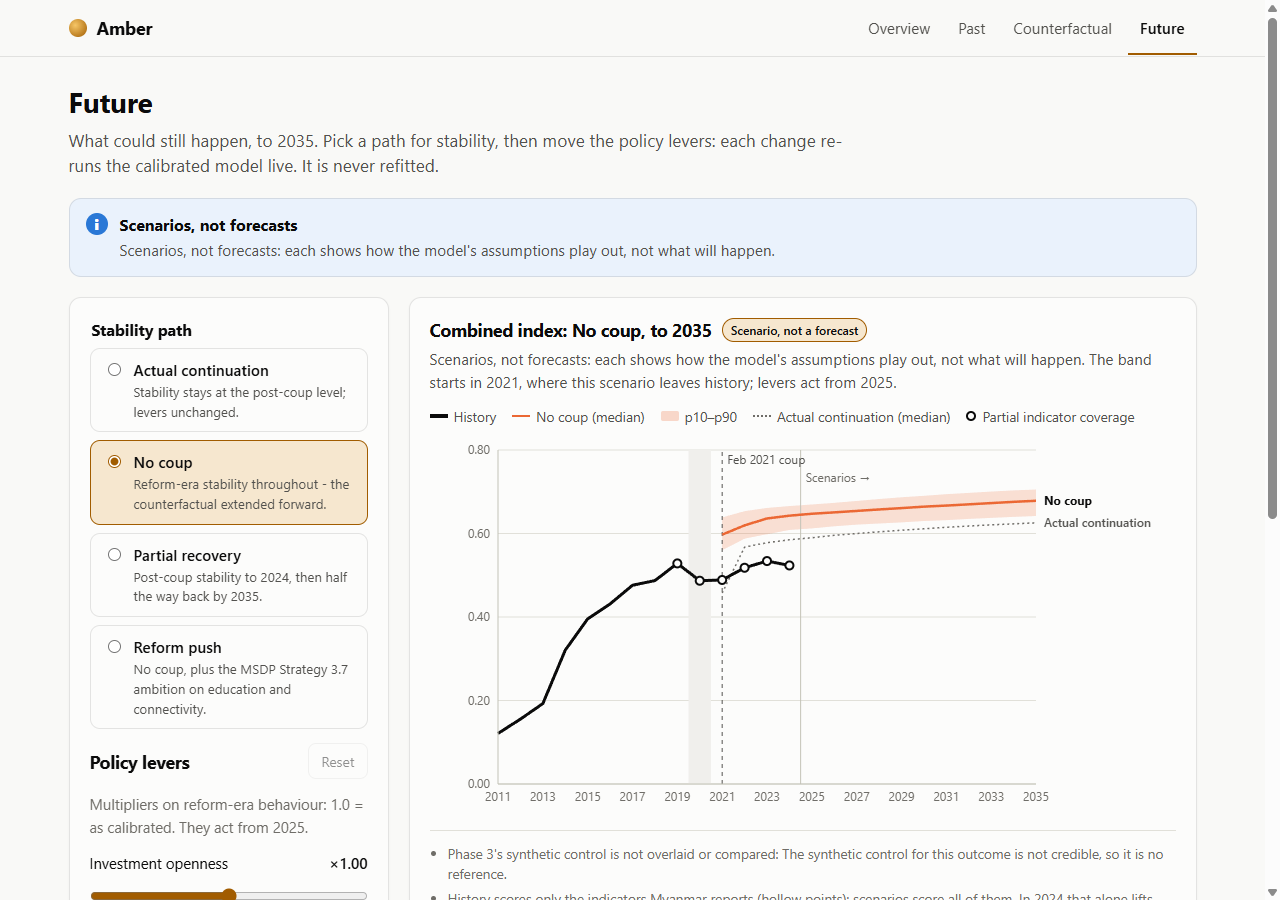
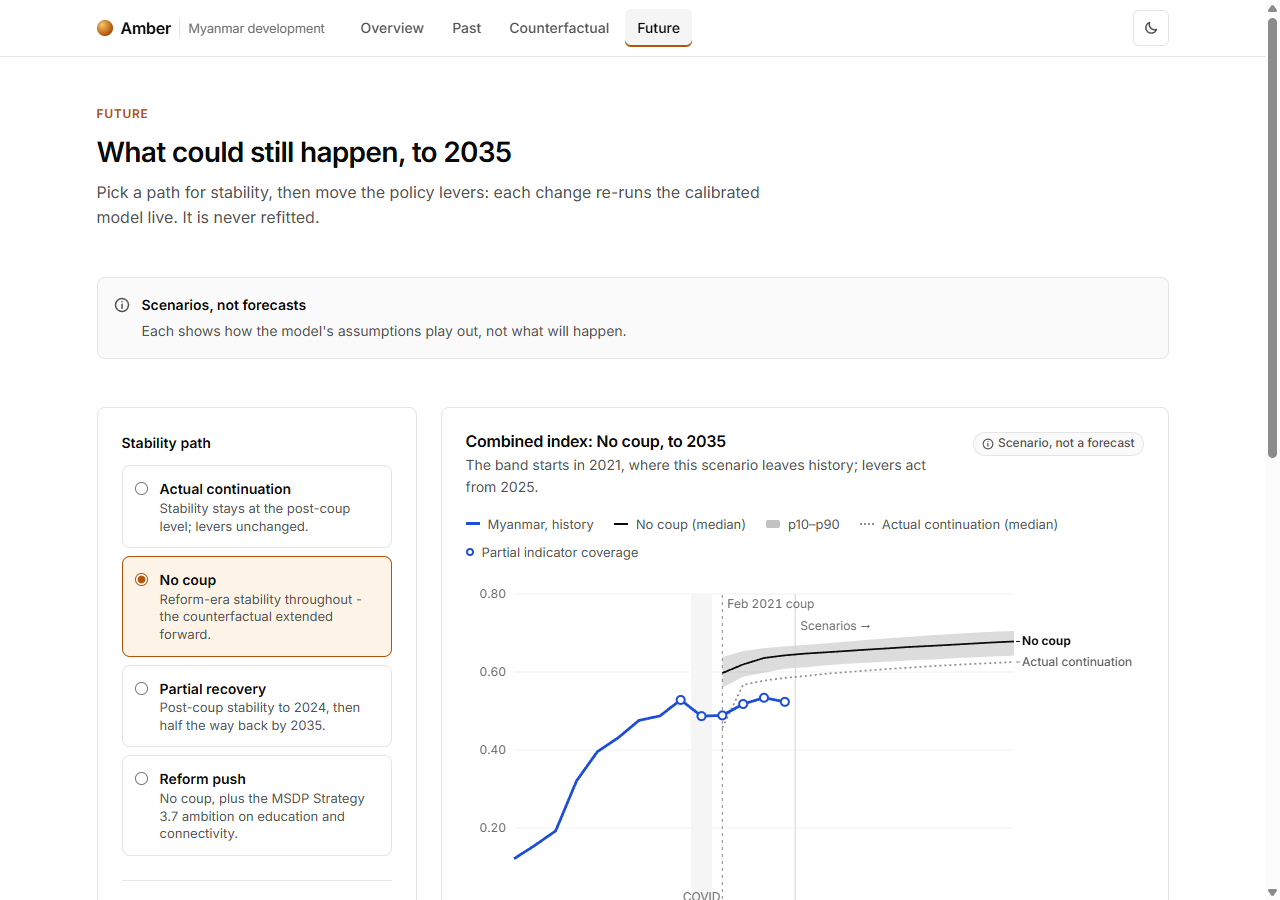
Document the design system, with before/after screenshots
docs/design-system.md records the tokens, the palette validation and the
honesty-color collision check, the type scale, primitives and chart grammar.
Before (Phase 6) vs after, same build, data and viewport:
  docs/images/redesign/before-overview.png -> docs/images/app-overview.png
  docs/images/redesign/before-future.png   -> docs/images/app-future.png
The README screenshots are recaptured from the redesigned app.

Bundle: JS ~201.5 -> 204.7 kB gz (+3.2), CSS 3.3 -> 5.4 kB gz, font +48 kB.

diff --git a/docs/design-system.md b/docs/design-system.md
@@ -1,0 +1,174 @@
+# Design system
+
+Amber's interface follows a calm, near-monochrome analytical style, in the spirit of Linear and Vercel:
+- hairline borders rather than shadows;
+- generous whitespace;
+- one amber accent;
+- charts that look like they came from the same hand.
+
+This page documents the tokens and the rules that use them.
+
+**Source of truth:**
+- [`frontend/src/styles/tokens.css`](../frontend/src/styles/tokens.css) holds every color, size, space, radius, shadow and motion value.
+- [`frontend/src/lib/chartTokens.ts`](../frontend/src/lib/chartTokens.ts) holds the chart geometry Recharts needs as numbers.
+
+Components use `var(--token)` and never carry their own hex or pixel values.
+
+**Before and after** (the same build, data and viewport):
+
+| | Overview | Future |
+|---|---|---|
+| Before | ![Overview before the redesign](images/redesign/before-overview.png) | ![Future view before the redesign](images/redesign/before-future.png) |
+| After | ![Overview after the redesign](images/app-overview.png) | ![Future view after the redesign](images/app-future.png) |
+
+---
+
+## Color
+
+Color has three jobs, and each job has its own palette. The palettes never borrow from one another.
+
+### 1. Neutral ramp (the UI)
+
+| Token | Light | Dark | Use | Contrast (on surface) |
+|---|---|---|---|---|
+| `--bg` / `--surface` | `#ffffff` / `#ffffff` | `#0a0a0a` / `#111111` | page, cards | |
+| `--surface-subtle` | `#fafafa` | `#161616` | tints, table heads | |
+| `--surface-hover` | `#f5f5f5` | `#1c1c1c` | hover, active tab | |
+| `--border` | `#e5e5e5` | `#262626` | hairlines | decorative |
+| `--border-strong` | `#d4d4d4` | `#333333` | inputs, hover borders | decorative |
+| `--text-1` | `#0a0a0a` | `#ededed` | primary text | 19.8 / 16.1 |
+| `--text-2` | `#525252` | `#a3a3a3` | secondary text | 7.8 / 7.5 |
+| `--text-3` | `#6b6b6b` | `#8f8f8f` | tertiary text, axis ticks | 5.3 / 5.8 |
+
+Every text token clears WCAG AA (4.5:1) on every surface it sits on, hover tints included, in both themes.
+
+### 2. The accent (interactive, active, brand)
+
+Refined amber: `--accent` is `#b45309` (light) and `#f5a524` (dark). It's used only for:
+- the active tab;
+- slider fills and radios;
+- the focus ring;
+- eyebrows and calls to action;
+- the brand mark.
+
+It never appears in a chart.
+
+### 3. Data palette (the series)
+
+The treated country is the **hero**, a strong blue. The six donors take slots 1–6 in `/meta` order (`countryColors` in `lib/theme.ts`). So every chart colors a country identically, the frontend never names a country, and a filter can never repaint the survivors.
+
+| Slot | Light | Dark |
+|---|---|---|
+| `--data-hero` | `#1d4ed8` | `#4f7ff0` |
+| `--data-1` | `#0d9e8d` | `#159c8c` |
+| `--data-2` | `#a46ad8` | `#9c76de` |
+| `--data-3` | `#679a29` | `#6f9d33` |
+| `--data-4` | `#d15a94` | `#d0659f` |
+| `--data-5` | `#3a8ec0` | `#3497c4` |
+| `--data-6` | `#a08332` | `#a8893b` |
+
+**How donors stay recessive.** Desaturating them was rejected because it fails the validator's chroma floor: the lines read as gray and can't be told apart. Instead, donors keep their chroma and recede by weight: 1.5px strokes against the hero's 2.75px. Every line also carries a direct end label, so color is never the only cue.
+
+**Validated** with the dataviz skill's `validate_palette.js` (light on `#ffffff`, dark on `#111111`):
+
+| Check | Light | Dark |
+|---|---|---|
+| Lightness band | pass (L 0.43–0.77) | pass (L 0.48–0.67) |
+| Chroma floor (≥ 0.10) | pass | pass |
+| Adjacent CVD separation (target ΔE ≥ 8) | pass, worst 8.6 | pass, worst 8.1 |
+| Normal-vision floor (ΔE ≥ 15) | pass, worst 20.7 | pass, worst 19.6 |
+| Contrast vs surface (≥ 3:1) | pass | pass |
+
+**Modeled lines are neutral.** Whatever is constructed is drawn in neutral ink, told apart by stroke:
+- synthetic Myanmar is dashed;
+- a scenario median is solid, over a soft band;
+- the baseline scenario is dotted;
+- placebos are thin.
+
+Real Myanmar is always the hero. `--chart-faint` (poor-fit placebos, about 1.8:1) is deliberately below 3:1. Those lines are fit failures, kept for the p-value, and they're also dashed, labelled in the legend and listed in the data table.
+
+### 4. Honesty signals
+
+These are deep text tones on pale tints. They always come with an icon and a title, so they're never color alone, and they stay calm: legible and unmissable, never alarming.
+
+| Signal | Token | Light fg / bg | Dark fg / bg | Text contrast |
+|---|---|---|---|---|
+| Partial coverage | `--caution-*` | `#7c5e10` / `#fbf5e6` | `#f2d27a` / `#2a2410` | 5.6 / 10.5 |
+| Not credible | `--critical-*` | `#8f3b45` / `#fbf0ee` | `#f2a49c` / `#2c1715` | 6.5 / 8.5 |
+| Framing, info | `--info-*` | `#525252` / `#fafafa` | `#a3a3a3` / `#161616` | 7.5 / 7.2 |
+
+**Collision check** (OKLab ΔE×100 against every series color):
+- The not-credible tone clears every series at **ΔE ≥ 17**.
+- The caution tone and the accent sit about **ΔE 11.5** from the tan donor slot, with every other slot at ≥ 15.
+
+That residual is accepted, for three reasons:
+- The accent never appears in a chart.
+- The caution tone appears only in pills that carry an icon and a label.
+- In charts, partial coverage is encoded by **shape** (a hollow ring in the series' own color), not by the caution hue.
+
+---
+
+## Type
+
+[Inter Variable](https://rsms.me/inter/) is self-hosted through `@fontsource-variable/inter`, weight axis only. Browsers fetch just the 48 kB Latin file. It falls back to the system UI stack.
+
+**Tabular figures everywhere:** numbers, axis ticks, tooltips, tables and slider values all use `font-variant-numeric: tabular-nums`.
+
+| Token | Size | Use |
+|---|---|---|
+| `--text-2xs` | 11px | chart ticks at phone width |
+| `--text-xs` | 12px | eyebrows, chart ticks, captions, pills |
+| `--text-sm` | 13px | notes, legends, hints |
+| `--text-base` | 14px | UI body |
+| `--text-md` | 16px | ledes, chart titles |
+| `--text-lg` | 20px | section titles |
+| `--text-xl` | 28px | view titles (H1), stat values |
+| `--text-2xl` | 40px | the overview headline |
+
+Line heights are 1.15 for headings, 1.35 for notes and 1.55 for prose. Large headings are tracked −0.015 to −0.025em.
+
+## Space, shape, depth, motion
+
+- **Space:** a 4px scale. The tokens `--space-1 … --space-16` cover 4, 8, 12, 16, 20, 24, 32, 40, 48 and 64.
+  - Views separate sections by 48px.
+  - Cards pad by 24px, or 16px at phone width.
+- **Radius:** `--radius` (8px) is used everywhere; `--radius-sm` (6px) is for controls and `--radius-full` for pills.
+- **Depth:**
+  - Separation comes from 1px hairlines and subtle surface tints.
+  - One soft shadow, `--shadow-elevated`, is reserved for genuinely floating surfaces: the tooltip and the focused skip link.
+  - The sticky header uses a translucent background with a backdrop blur.
+- **Motion:** 150ms, applied to hover and active colour changes only. Skeletons pulse gently, and `prefers-reduced-motion` removes all of it.
+
+---
+
+## Primitives
+
+| Component | What it standardizes |
+|---|---|
+| `AppShell` | Quiet sticky bar with the brand, views (active state: accent underline and tint) and the theme toggle; main column; footer |
+| `SectionHeader` | Eyebrow → title → description. One H1 per view; H2 for sections |
+| `Card` | Hairline border, generous padding, one radius |
+| `ChartFrame` | Every chart: title and claim, caveat pill and status, honesty callout slot, keys, plot, notes and source, data table, screen-reader summary |
+| `ControlPanel`, `ControlGroup`, `Slider` | Controls grouped apart from their output; every slider shows its live value |
+| `StatCallout`, `StatRow` | Headline numbers: label, large tabular value, context |
+| `Banner`, `Pill` | The honesty signals and framing, by tone (`info`, `caution`, `critical`), each with an icon |
+| `Loading` (skeleton), `Waking`, `FetchError`, `Async` | Load states: skeletons rather than spinners, with the cold-start and error states as banners |
+
+## Chart grammar
+
+All charts build from [`charts/common.tsx`](../frontend/src/charts/common.tsx):
+
+- **No chart-junk.** No plot border or background, faint horizontal rules only, and a hairline baseline. The value axis has no line and five formatted ticks; years are ticked every 2 (every 4 on phones).
+- **Direct labels.** [`EndLabels`](../frontend/src/charts/EndLabels.tsx) labels each line at its right end. It uses the axis scales to nudge labels apart, with a leader line in the series color. The text stays in text tones. At phone width the labels drop out, and a per-series legend takes their place.
+- **One treatment line.** A thin dashed rule with a small "Feb 2021 coup" label, on every time series. COVID is a faint labelled tint. "Scenarios →" marks where projections begin.
+- **One tooltip.** [`ChartTooltip`](../frontend/src/charts/ChartTooltip.tsx) is a single card with right-aligned tabular values, sorted. It also carries notes, such as partial coverage.
+- **Coverage is a shape.** Partial-coverage points are hollow rings, wherever the index is drawn.
+
+## Accessibility
+
+- AA contrast holds for every text token in both themes.
+- Graphics are ≥ 3:1, apart from the documented recessive poor-fit placebos.
+- Every control shows a visible focus ring, and there is a skip link.
+- No distinction rests on color alone: weight, dash, end labels, icons and titles carry it too.
+- Every chart keeps a screen-reader summary and a data table.
+- The theme toggle lives in memory only, so the app keeps no storage. Charts re-read the tokens on every switch.

diff --git a/CLAUDE.md b/CLAUDE.md
@@ -108,12 +108,12 @@ These are decisions already made. Don't quietly re-litigate them in code.
 
 - **The precompute/live boundary is load-bearing.** Only `/index` (`compute_index`) and `/simulate` (`run_scenarios` on the calibration and profile nodes rebuilt from `sd_calibration`/`sd_profile`) compute on request, both in `api/live.py`. Never call `calibrate`, `profile`, `backtest` or any synthetic-control fit from the API; `tests/test_api.py` replaces them with functions that fail.
 - **Caveats travel with the data.** Every modeled payload carries its verdict (`coverage`, `credibility`, `sc_checks`), and the UI renders it wherever the series appears: hollow points for coverage < 1, the not-credible banner and an "illustrative" badge (no gap stated as an effect) for `credible == false`, persistent "scenarios, not forecasts". A chart that hides its caveat is a defect. `Counterfactual.test.tsx` guards the banner.
-- **The frontend hardcodes nothing** that config knows: countries, indicators, pillars, weights, levers, scenarios, thresholds and caveat wording all come from `/meta` (framing strings live in `config.py`). Colors come from the validated dataviz palette in `styles.css`, assigned by meta order.
+- **The frontend hardcodes nothing** that config knows: countries, indicators, pillars, weights, levers, scenarios, thresholds and caveat wording all come from `/meta` (framing strings live in `config.py`). Every color, size, space, radius and motion value is a token in `styles/tokens.css` (light + dark; chart geometry Recharts needs as numbers in `lib/chartTokens.ts`) - no hex or px in components. The treated country is always `--data-hero`; donors take `--data-1..6` in meta order (`countryColors`). The data palette, the amber UI accent and the honesty tones are separate and validated - see `docs/design-system.md` before changing any of them.
 - **`data/release/` is regenerated with `make release`, never edited** - the store refuses a snapshot that fails its manifest. The API tests run against it, so re-release after any model change and rerun `pytest`.
 - `/simulate` levers override a named scenario (default: the baseline); the phase 3 check is reported only where a scenario follows the no-coup stability path through the overlap.
 - No localStorage/sessionStorage; routing is the URL hash. Vitest pre-bundles Recharts (`deps.optimizer`) - without it the import alone takes ~20 s and the worker times out.
 - **Every fetch goes through `useApi` + `<Async>`** (`components/LoadState.tsx`): transient failures (network, timeout, 502/503/504) retry with back-off for `WAKE_BUDGET_MS` showing the "waking the server" state - the Render free tier cold-starts in up to a minute - while a 422 is never retried and is explained. Data already on screen stays while a refresh runs or fails. Don't hand-roll loading/error JSX in a view.
-- **`ChartCard` requires a `summary`** (screen-reader text) and takes a `table` (`lib/describe.ts` builds both from the rows the chart draws). Its `badge` is a caveat and always shows; transient state goes in `status`, never in `badge`. Lines are distinguished by width, dash and end label as well as color; at phone width (`useChartLayout`) end labels drop and identity falls to the legend and patterns.
+- **`ChartFrame` requires a `summary`** (screen-reader text) and takes a `table` (`lib/describe.ts` builds both from the rows the chart draws). Its `badge` is a caveat and always shows; transient state goes in `status`, never in `badge`; coverage pills go in its `callout` slot. Charts build from the shared grammar in `charts/common.tsx` (axes, grid, tooltip, treatment line), direct end labels via `EndLabels`, and one `ChartTooltip`. Lines are distinguished by width, dash and end label as well as color; at phone width (`useChartLayout`) end labels drop and identity falls to the legend and patterns.
 - The API's precomputed GETs are serialized once at startup and served with a weak ETag (`api/caching.py`); `/panel` and `/index` get `Cache-Control` only; `/health` is `no-store`. A change to a response's shape changes its bytes, so the ETag follows automatically.
 
 ## Data rules

diff --git a/CHANGELOG.md b/CHANGELOG.md
@@ -2,6 +2,34 @@
 
 Amber follows [Semantic Versioning](https://semver.org/). Versions 0.1.0 to 0.5.0 are the build phases, recorded here after the fact: they mark milestones in the commit history and were never tagged. **v1.0.0 is the first tagged release.**
 
+## [Unreleased]
+
+A visual redesign, presentation only. The API, data, behavior and every honesty signal are unchanged; the signals are restyled, not removed.
+
+### Changed
+- **A design-token layer.** [`styles/tokens.css`](frontend/src/styles/tokens.css) is the single source for color, type, space, radius, shadow and motion, in light and dark. The palettes are separate:
+  - a neutral ramp for the UI;
+  - one amber accent;
+  - a validated data palette (the treated country as the hero, donors in fixed slots);
+  - calm honesty tones.
+
+  See [docs/design-system.md](docs/design-system.md).
+- **Inter Variable**, self-hosted (48 kB Latin), with tabular figures on every number and axis.
+- **Shared primitives:** `AppShell` (with a light/dark toggle held in memory), `SectionHeader`, `Card`, `ChartFrame`, `ControlPanel`, `StatCallout`, `Banner` and `Pill`, and skeleton loading states.
+- **One chart grammar:**
+  - no chart-junk;
+  - direct end labels with collision avoidance, in place of legends;
+  - a single quiet treatment line;
+  - one tooltip card with right-aligned tabular values;
+  - the hero/neutral split between real Myanmar and anything modeled.
+- **Decluttered hierarchy.** One H1 per view, generous section spacing, controls set apart from the charts they drive, and the scenario framing said once per surface.
+- The smoke test checks that every chart draws across its plot, and takes full-page screenshots at real layout. It now runs 59 checks.
+
+### Bundle
+- JavaScript: about 201.5 → 204.7 kB gzipped (+3.2 kB).
+- CSS: 3.3 → 5.4 kB gzipped.
+- Font: +48 kB, cached after the first visit.
+
 ## [1.0.0] - 2026-10-01
 
 Phase 6: polish, hardening and documentation for the public release. No modeling changed. Every chart and table is byte-identical to 0.5.0.

diff --git a/DEPLOY.md b/DEPLOY.md
@@ -117,7 +117,7 @@ npm ci
 npm run smoke -- --url $APP
 ```
 
-It loads all four views at desktop and phone width, checks that nothing overflows and that every caveat is visible, moves a weight slider and a lever, and checks that the API answered and the chart redrew. It should end with `51/51 checks passed`. If the API was asleep, the first view simply takes longer; the script waits up to two minutes per view.
+It loads all four views at desktop and phone width, checks that nothing overflows and that every caveat is visible, moves a weight slider and a lever, and checks that the API answered and the chart redrew. It also checks that every chart draws across its plot. It should end with `59/59 checks passed`. If the API was asleep, the first view simply takes longer; the script waits up to two minutes per view.
 
 - [ ] `/health` reports `source: release` and the expected snapshot date
 - [ ] `/meta` carries `ETag` and `Cache-Control`
@@ -249,7 +249,7 @@ AMBER_CORS_ORIGINS=http://localhost:4173 .venv/bin/python -m uvicorn amber.api.m
 cd frontend && npm ci && npm test && npm run build && npx vite preview --port 4173
 
 # Terminal 3 - the browser smoke test
-cd frontend && npm run smoke -- --url http://localhost:4173     # 51/51 checks passed
+cd frontend && npm run smoke -- --url http://localhost:4173     # 59/59 checks passed
 ```
 
 `tests/test_api.py::test_the_api_serves_the_release_with_no_outbound_connections` blocks every non-loopback socket and then starts the API and calls every endpoint. That makes "zero World Bank calls" a tested property, not a promise.

diff --git a/README.md b/README.md
@@ -63,6 +63,7 @@ Every number is presented as what it is: an estimate against a constructed compa
 |---|---|
 | [docs/METHODOLOGY.md](docs/METHODOLOGY.md) | How each layer works and why, tied to the `config.py` constant that encodes each decision |
 | [docs/LIMITATIONS.md](docs/LIMITATIONS.md) | What Amber cannot tell you: data gaps, source caveats, the thin donor pool, the model's assumptions, and a note on neutrality |
+| [docs/design-system.md](docs/design-system.md) | The UI's tokens, palettes (with their validation), type, primitives and chart grammar |
 | [DEPLOY.md](DEPLOY.md) | Step-by-step Render + Vercel deploy, smoke and manual QA checklists, operations |
 | [CHANGELOG.md](CHANGELOG.md) | Release history, phases 1–6 |
 | [docs/Amber-Project-Plan.md](docs/Amber-Project-Plan.md) | The original plan: scope, architecture, phases, risks |
